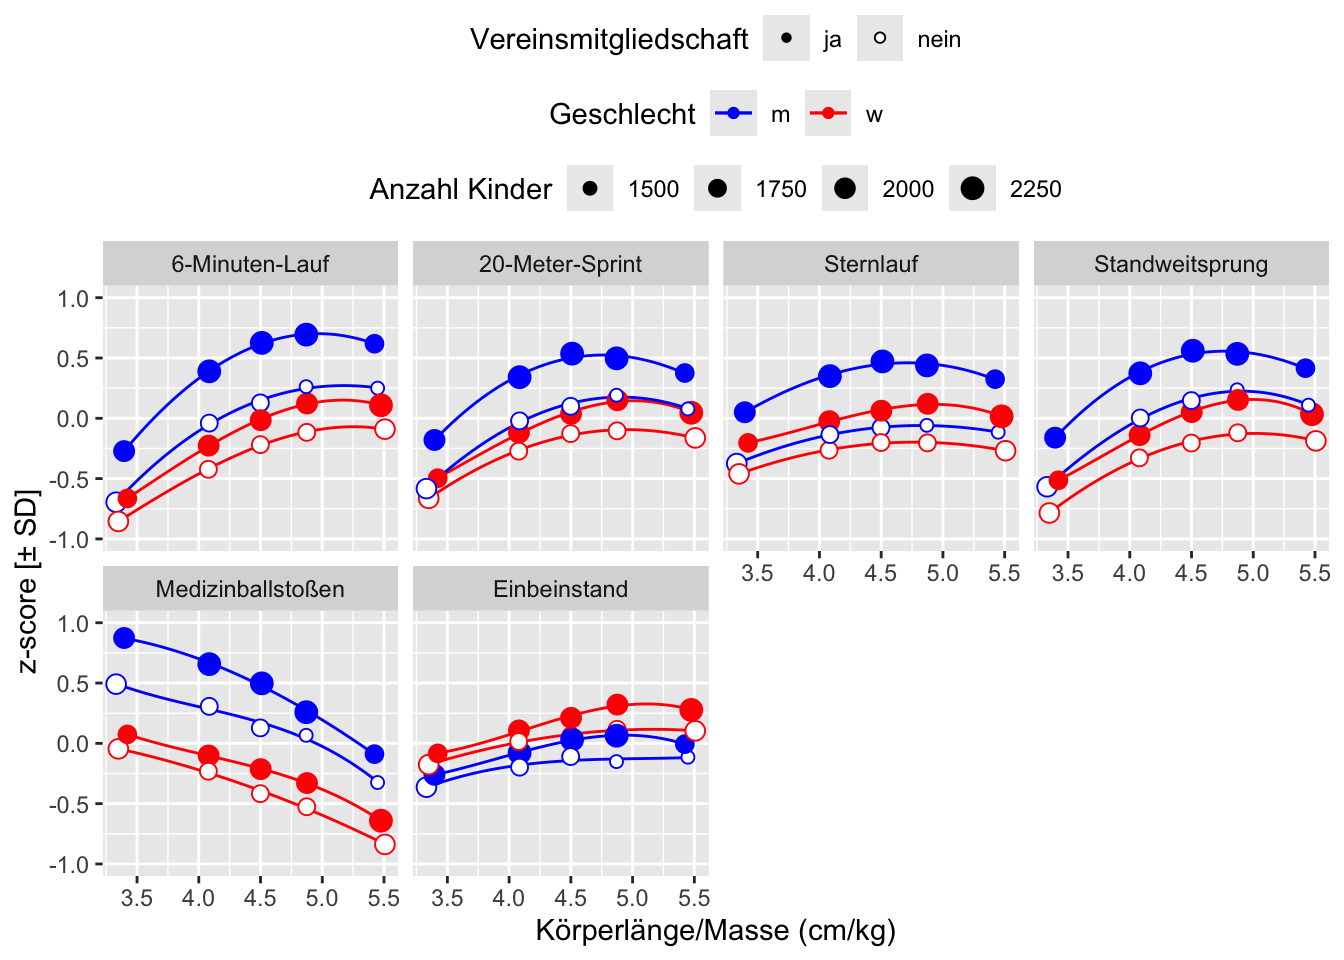
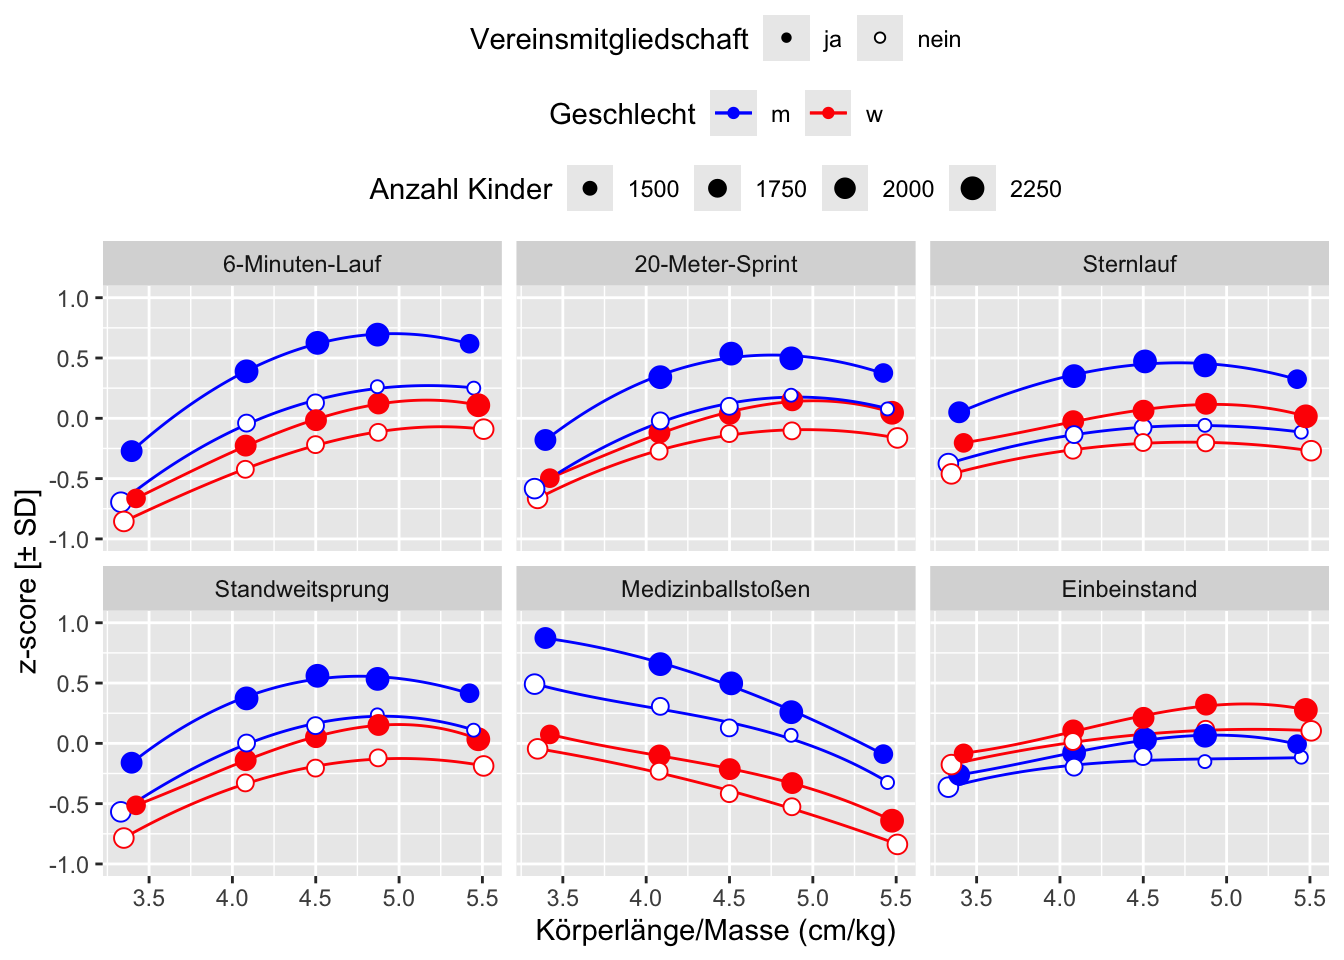
014

Changed region(s): [[0.0625, 0.25, 1.0, 0.9688], [0.8125, 0.25, 0.9375, 0.2812], [0.2188, 0.9062, 0.25, 0.9375]]

diff --git a/docs/014.html b/docs/014.html
@@ -299,8 +299,8 @@ ul.task-list li input[type="checkbox"] {
 <div class="cell">
 <div class="cell-output-display">
 
-<div class="reactable html-widget html-fill-item" id="htmlwidget-affe2804cde468acf1b6" style="width:auto;height:auto;"></div>
-<script type="application/json" data-for="htmlwidget-affe2804cde468acf1b6">{"x":{"tag":{"name":"Reactable","attribs":{"data":{"Component":["6-Minuten-Lauf","6-Minuten-Lauf","6-Minuten-Lauf","6-Minuten-Lauf","6-Minuten-Lauf","6-Minuten-Lauf","6-Minuten-Lauf","6-Minuten-Lauf","6-Minuten-Lauf","6-Minuten-Lauf","6-Minuten-Lauf","6-Minuten-Lauf","6-Minuten-Lauf","6-Minuten-Lauf","6-Minuten-Lauf","6-Minuten-Lauf","6-Minuten-Lauf","6-Minuten-Lauf","6-Minuten-Lauf","6-Minuten-Lauf","20-Meter-Sprint","20-Meter-Sprint","20-Meter-Sprint","20-Meter-Sprint","20-Meter-Sprint","20-Meter-Sprint","20-Meter-Sprint","20-Meter-Sprint","20-Meter-Sprint","20-Meter-Sprint","20-Meter-Sprint","20-Meter-Sprint","20-Meter-Sprint","20-Meter-Sprint","20-Meter-Sprint","20-Meter-Sprint","20-Meter-Sprint","20-Meter-Sprint","20-Meter-Sprint","20-Meter-Sprint","Sternlauf","Sternlauf","Sternlauf","Sternlauf","Sternlauf","Sternlauf","Sternlauf","Sternlauf","Sternlauf","Sternlauf","Sternlauf","Sternlauf","Sternlauf","Sternlauf","Sternlauf","Sternlauf","Sternlauf","Sternlauf","Sternlauf","Sternlauf","Standweitsprung","Standweitsprung","Standweitsprung","Standweitsprung","Standweitsprung","Standweitsprung","Standweitsprung","Standweitsprung","Standweitsprung","Standweitsprung","Standweitsprung","Standweitsprung","Standweitsprung","Standweitsprung","Standweitsprung","Standweitsprung","Standweitsprung","Standweitsprung","Standweitsprung","Standweitsprung","Medizinballstoßen","Medizinballstoßen","Medizinballstoßen","Medizinballstoßen","Medizinballstoßen","Medizinballstoßen","Medizinballstoßen","Medizinballstoßen","Medizinballstoßen","Medizinballstoßen","Medizinballstoßen","Medizinballstoßen","Medizinballstoßen","Medizinballstoßen","Medizinballstoßen","Medizinballstoßen","Medizinballstoßen","Medizinballstoßen","Medizinballstoßen","Medizinballstoßen","Einbeinstand","Einbeinstand","Einbeinstand","Einbeinstand","Einbeinstand","Einbeinstand","Einbeinstand","Einbeinstand","Einbeinstand","Einbeinstand","Einbeinstand","Einbeinstand","Einbeinstand","Einbeinstand","Einbeinstand","Einbeinstand","Einbeinstand","Einbeinstand","Einbeinstand","Einbeinstand"],"Sex":["m","m","m","m","m","m","m","m","m","m","w","w","w","w","w","w","w","w","w","w","m","m","m","m","m","m","m","m","m","m","w","w","w","w","w","w","w","w","w","w","m","m","m","m","m","m","m","m","m","m","w","w","w","w","w","w","w","w","w","w","m","m","m","m","m","m","m","m","m","m","w","w","w","w","w","w","w","w","w","w","m","m","m","m","m","m","m","m","m","m","w","w","w","w","w","w","w","w","w","w","m","m","m","m","m","m","m","m","m","m","w","w","w","w","w","w","w","w","w","w"],"Hmr":["[2.5,3.82]","[2.5,3.82]","(3.82,4.31]","(3.82,4.31]","(4.31,4.67]","(4.31,4.67]","(4.67,5.08]","(4.67,5.08]","(5.08,6.5]","(5.08,6.5]","[2.5,3.82]","[2.5,3.82]","(3.82,4.31]","(3.82,4.31]","(4.31,4.67]","(4.31,4.67]","(4.67,5.08]","(4.67,5.08]","(5.08,6.5]","(5.08,6.5]","[2.5,3.82]","[2.5,3.82]","(3.82,4.31]","(3.82,4.31]","(4.31,4.67]","(4.31,4.67]","(4.67,5.08]","(4.67,5.08]","(5.08,6.5]","(5.08,6.5]","[2.5,3.82]","[2.5,3.82]","(3.82,4.31]","(3.82,4.31]","(4.31,4.67]","(4.31,4.67]","(4.67,5.08]","(4.67,5.08]","(5.08,6.5]","(5.08,6.5]","[2.5,3.82]","[2.5,3.82]","(3.82,4.31]","(3.82,4.31]","(4.31,4.67]","(4.31,4.67]","(4.67,5.08]","(4.67,5.08]","(5.08,6.5]","(5.08,6.5]","[2.5,3.82]","[2.5,3.82]","(3.82,4.31]","(3.82,4.31]","(4.31,4.67]","(4.31,4.67]","(4.67,5.08]","(4.67,5.08]","(5.08,6.5]","(5.08,6.5]","[2.5,3.82]","[2.5,3.82]","(3.82,4.31]","(3.82,4.31]","(4.31,4.67]","(4.31,4.67]","(4.67,5.08]","(4.67,5.08]","(5.08,6.5]","(5.08,6.5]","[2.5,3.82]","[2.5,3.82]","(3.82,4.31]","(3.82,4.31]","(4.31,4.67]","(4.31,4.67]","(4.67,5.08]","(4.67,5.08]","(5.08,6.5]","(5.08,6.5]","[2.5,3.82]","[2.5,3.82]","(3.82,4.31]","(3.82,4.31]","(4.31,4.67]","(4.31,4.67]","(4.67,5.08]","(4.67,5.08]","(5.08,6.5]","(5.08,6.5]","[2.5,3.82]","[2.5,3.82]","(3.82,4.31]","(3.82,4.31]","(4.31,4.67]","(4.31,4.67]","(4.67,5.08]","(4.67,5.08]","(5.08,6.5]","(5.08,6.5]","[2.5,3.82]","[2.5,3.82]","(3.82,4.31]","(3.82,4.31]","(4.31,4.67]","(4.31,4.67]","(4.67,5.08]","(4.67,5.08]","(5.08,6.5]","(5.08,6.5]","[2.5,3.82]","[2.5,3.82]","(3.82,4.31]","(3.82,4.31]","(4.31,4.67]","(4.31,4.67]","(4.67,5.08]","(4.67,5.08]","(5.08,6.5]","(5.08,6.5]"],"Club":["ja","nein","ja","nein","ja","nein","ja","nein","ja","nein","ja","nein","ja","nein","ja","nein","ja","nein","ja","nein","ja","nein","ja","nein","ja","nein","ja","nein","ja","nein","ja","nein","ja","nein","ja","nein","ja","nein","ja","nein","ja","nein","ja","nein","ja","nein","ja","nein","ja","nein","ja","nein","ja","nein","ja","nein","ja","nein","ja","nein","ja","nein","ja","nein","ja","nein","ja","nein","ja","nein","ja","nein","ja","nein","ja","nein","ja","nein","ja","nein","ja","nein","ja","nein","ja","nein","ja","nein","ja","nein","ja","nein","ja","nein","ja","nein","ja","nein","ja","nein","ja","nein","ja","nein","ja","nein","ja","nein","ja","nein","ja","nein","ja","nein","ja","nein","ja","nein","ja","nein"],"N":[2042,1904,2357,1624,2495,1584,2344,1466,1945,1268,1813,1914,2114,1734,2178,1608,2165,1564,2374,1871,2042,1913,2355,1624,2498,1583,2348,1466,1946,1268,1814,1915,2113,1733,2178,1609,2168,1564,2375,1873,2045,1913,2357,1626,2497,1584,2350,1467,1945,1268,1814,1916,2113,1734,2178,1608,2168,1565,2375,1873,2044,1913,2357,1625,2498,1584,2349,1467,1947,1268,1814,1916,2114,1734,2177,1609,2168,1565,2374,1874,2043,1913,2356,1626,2497,1583,2349,1467,1947,1269,1814,1916,2113,1734,2178,1609,2168,1565,2375,1874,2045,1913,2357,1626,2498,1584,2350,1467,1947,1269,1814,1916,2114,1734,2178,1609,2168,1565,2375,1874],"value":[2.56,2.39,2.83,2.65,2.92,2.72,2.95,2.77,2.92,2.77,2.4,2.33,2.58,2.5,2.66,2.58,2.72,2.62,2.71,2.63,4.47,4.3,4.68,4.53,4.77,4.58,4.75,4.62,4.7,4.58,4.34,4.27,4.49,4.43,4.56,4.49,4.61,4.5,4.56,4.48,1.96,1.83,2.05,1.91,2.09,1.92,2.08,1.93,2.04,1.91,1.88,1.81,1.94,1.87,1.97,1.89,1.98,1.88,1.95,1.86,124.75,116.41,135.68,128.09,139.51,131.05,138.99,132.88,136.55,130.28,117.52,111.96,125.19,121.32,129.09,123.84,131.16,125.58,128.74,124.2,4.52,4.24,4.36,4.11,4.25,3.98,4.07,3.93,3.82,3.65,3.94,3.85,3.81,3.72,3.73,3.58,3.65,3.5,3.42,3.28,14.45,12.81,17.37,15.46,19.12,16.87,19.64,16.2,18.52,16.78,17.3,15.8,20.34,18.87,22.01,19.62,23.77,20.49,23.06,20.29],"value_sd":[0.39,0.41,0.39,0.37,0.37,0.38,0.37,0.36,0.37,0.38,0.35,0.37,0.34,0.34,0.34,0.34,0.33,0.33,0.34,0.33,0.42,0.42,0.4,0.4,0.39,0.41,0.37,0.41,0.38,0.4,0.38,0.38,0.38,0.4,0.38,0.39,0.39,0.38,0.38,0.38,0.29,0.28,0.3,0.31,0.31,0.3,0.31,0.29,0.31,0.3,0.27,0.27,0.28,0.29,0.28,0.28,0.29,0.28,0.29,0.28,20.3,20.45,19.96,19.75,19.07,20.07,18.35,19.13,18.03,18.89,18.24,18.69,18.85,19.44,18.96,19.18,19.19,18.79,18.33,18.36,0.72,0.73,0.72,0.69,0.68,0.68,0.66,0.64,0.65,0.65,0.65,0.67,0.65,0.64,0.63,0.6,0.6,0.6,0.58,0.58,13.03,11.8,15.15,13.72,16.25,15.22,16.68,14.09,15.78,15.14,14.66,13.67,16.66,16.14,17.43,16.12,18.53,16.79,17.94,16.59],"Component_unit":["m/s","m/s","m/s","m/s","m/s","m/s","m/s","m/s","m/s","m/s","m/s","m/s","m/s","m/s","m/s","m/s","m/s","m/s","m/s","m/s","m/s","m/s","m/s","m/s","m/s","m/s","m/s","m/s","m/s","m/s","m/s","m/s","m/s","m/s","m/s","m/s","m/s","m/s","m/s","m/s","m/s","m/s","m/s","m/s","m/s","m/s","m/s","m/s","m/s","m/s","m/s","m/s","m/s","m/s","m/s","m/s","m/s","m/s","m/s","m/s","cm","cm","cm","cm","cm","cm","cm","cm","cm","cm","cm","cm","cm","cm","cm","cm","cm","cm","cm","cm","m","m","m","m","m","m","m","m","m","m","m","m","m","m","m","m","m","m","m","m","s","s","s","s","s","s","s","s","s","s","s","s","s","s","s","s","s","s","s","s"],"zScore_mean":[-0.27,-0.7,0.39,-0.04,0.63,0.13,0.69,0.26,0.62,0.25,-0.66,-0.86,-0.23,-0.42,-0.02,-0.22,0.12,-0.12,0.11,-0.09,-0.18,-0.58,0.34,-0.02,0.54,0.1,0.5,0.19,0.38,0.08,-0.5,-0.66,-0.12,-0.27,0.04,-0.13,0.15,-0.1,0.05,-0.16,0.05,-0.38,0.35,-0.14,0.47,-0.08,0.44,-0.06,0.32,-0.12,-0.2,-0.46,-0.02,-0.26,0.06,-0.2,0.12,-0.2,0.02,-0.27,-0.16,-0.57,0.37,0,0.56,0.15,0.53,0.24,0.42,0.11,-0.51,-0.79,-0.14,-0.33,0.05,-0.21,0.15,-0.12,0.03,-0.19,0.87,0.49,0.66,0.31,0.5,0.13,0.26,0.07,-0.09,-0.32,0.07,-0.05,-0.1,-0.23,-0.21,-0.42,-0.33,-0.53,-0.64,-0.84,-0.26,-0.36,-0.08,-0.2,0.03,-0.11,0.06,-0.15,-0.01,-0.11,-0.08,-0.18,0.11,0.02,0.21,0.06,0.32,0.12,0.28,0.1]},"columns":[{"id":"Component","name":"Test","type":"factor"},{"id":"Sex","name":"Geschlecht","type":"character"},{"id":"Hmr","name":"Körperlänge/Masse (cm/kg) Intervall","type":"factor"},{"id":"Club","name":"Vereinsmitgliedschaft","type":"character"},{"id":"N","name":"Anzahl Kinder","type":"numeric"},{"id":"value","name":"Mittelwert","type":"numeric"},{"id":"value_sd","name":"Standardabweichung","type":"numeric"},{"id":"Component_unit","name":"Einheit","type":"factor"},{"id":"zScore_mean","name":"zScore","type":"numeric"}],"filterable":true,"pagination":false,"style":{"fontFamily":"Work Sans, sans-serif","fontSize":"0.75rem"},"dataKey":"6a8c4ce4464e33328e8c09a17133b22f"},"children":[]},"class":"reactR_markup"},"evals":[],"jsHooks":[]}</script>
+<div class="reactable html-widget html-fill-item" id="htmlwidget-35f9bff1d1ef0e6336ed" style="width:auto;height:auto;"></div>
+<script type="application/json" data-for="htmlwidget-35f9bff1d1ef0e6336ed">{"x":{"tag":{"name":"Reactable","attribs":{"data":{"Component":["6-Minuten-Lauf","6-Minuten-Lauf","6-Minuten-Lauf","6-Minuten-Lauf","6-Minuten-Lauf","6-Minuten-Lauf","6-Minuten-Lauf","6-Minuten-Lauf","6-Minuten-Lauf","6-Minuten-Lauf","6-Minuten-Lauf","6-Minuten-Lauf","6-Minuten-Lauf","6-Minuten-Lauf","6-Minuten-Lauf","6-Minuten-Lauf","6-Minuten-Lauf","6-Minuten-Lauf","6-Minuten-Lauf","6-Minuten-Lauf","20-Meter-Sprint","20-Meter-Sprint","20-Meter-Sprint","20-Meter-Sprint","20-Meter-Sprint","20-Meter-Sprint","20-Meter-Sprint","20-Meter-Sprint","20-Meter-Sprint","20-Meter-Sprint","20-Meter-Sprint","20-Meter-Sprint","20-Meter-Sprint","20-Meter-Sprint","20-Meter-Sprint","20-Meter-Sprint","20-Meter-Sprint","20-Meter-Sprint","20-Meter-Sprint","20-Meter-Sprint","Sternlauf","Sternlauf","Sternlauf","Sternlauf","Sternlauf","Sternlauf","Sternlauf","Sternlauf","Sternlauf","Sternlauf","Sternlauf","Sternlauf","Sternlauf","Sternlauf","Sternlauf","Sternlauf","Sternlauf","Sternlauf","Sternlauf","Sternlauf","Standweitsprung","Standweitsprung","Standweitsprung","Standweitsprung","Standweitsprung","Standweitsprung","Standweitsprung","Standweitsprung","Standweitsprung","Standweitsprung","Standweitsprung","Standweitsprung","Standweitsprung","Standweitsprung","Standweitsprung","Standweitsprung","Standweitsprung","Standweitsprung","Standweitsprung","Standweitsprung","Medizinballstoßen","Medizinballstoßen","Medizinballstoßen","Medizinballstoßen","Medizinballstoßen","Medizinballstoßen","Medizinballstoßen","Medizinballstoßen","Medizinballstoßen","Medizinballstoßen","Medizinballstoßen","Medizinballstoßen","Medizinballstoßen","Medizinballstoßen","Medizinballstoßen","Medizinballstoßen","Medizinballstoßen","Medizinballstoßen","Medizinballstoßen","Medizinballstoßen","Einbeinstand","Einbeinstand","Einbeinstand","Einbeinstand","Einbeinstand","Einbeinstand","Einbeinstand","Einbeinstand","Einbeinstand","Einbeinstand","Einbeinstand","Einbeinstand","Einbeinstand","Einbeinstand","Einbeinstand","Einbeinstand","Einbeinstand","Einbeinstand","Einbeinstand","Einbeinstand"],"Sex":["m","m","m","m","m","m","m","m","m","m","w","w","w","w","w","w","w","w","w","w","m","m","m","m","m","m","m","m","m","m","w","w","w","w","w","w","w","w","w","w","m","m","m","m","m","m","m","m","m","m","w","w","w","w","w","w","w","w","w","w","m","m","m","m","m","m","m","m","m","m","w","w","w","w","w","w","w","w","w","w","m","m","m","m","m","m","m","m","m","m","w","w","w","w","w","w","w","w","w","w","m","m","m","m","m","m","m","m","m","m","w","w","w","w","w","w","w","w","w","w"],"Hmr":["[2.5,3.82]","[2.5,3.82]","(3.82,4.31]","(3.82,4.31]","(4.31,4.67]","(4.31,4.67]","(4.67,5.08]","(4.67,5.08]","(5.08,6.5]","(5.08,6.5]","[2.5,3.82]","[2.5,3.82]","(3.82,4.31]","(3.82,4.31]","(4.31,4.67]","(4.31,4.67]","(4.67,5.08]","(4.67,5.08]","(5.08,6.5]","(5.08,6.5]","[2.5,3.82]","[2.5,3.82]","(3.82,4.31]","(3.82,4.31]","(4.31,4.67]","(4.31,4.67]","(4.67,5.08]","(4.67,5.08]","(5.08,6.5]","(5.08,6.5]","[2.5,3.82]","[2.5,3.82]","(3.82,4.31]","(3.82,4.31]","(4.31,4.67]","(4.31,4.67]","(4.67,5.08]","(4.67,5.08]","(5.08,6.5]","(5.08,6.5]","[2.5,3.82]","[2.5,3.82]","(3.82,4.31]","(3.82,4.31]","(4.31,4.67]","(4.31,4.67]","(4.67,5.08]","(4.67,5.08]","(5.08,6.5]","(5.08,6.5]","[2.5,3.82]","[2.5,3.82]","(3.82,4.31]","(3.82,4.31]","(4.31,4.67]","(4.31,4.67]","(4.67,5.08]","(4.67,5.08]","(5.08,6.5]","(5.08,6.5]","[2.5,3.82]","[2.5,3.82]","(3.82,4.31]","(3.82,4.31]","(4.31,4.67]","(4.31,4.67]","(4.67,5.08]","(4.67,5.08]","(5.08,6.5]","(5.08,6.5]","[2.5,3.82]","[2.5,3.82]","(3.82,4.31]","(3.82,4.31]","(4.31,4.67]","(4.31,4.67]","(4.67,5.08]","(4.67,5.08]","(5.08,6.5]","(5.08,6.5]","[2.5,3.82]","[2.5,3.82]","(3.82,4.31]","(3.82,4.31]","(4.31,4.67]","(4.31,4.67]","(4.67,5.08]","(4.67,5.08]","(5.08,6.5]","(5.08,6.5]","[2.5,3.82]","[2.5,3.82]","(3.82,4.31]","(3.82,4.31]","(4.31,4.67]","(4.31,4.67]","(4.67,5.08]","(4.67,5.08]","(5.08,6.5]","(5.08,6.5]","[2.5,3.82]","[2.5,3.82]","(3.82,4.31]","(3.82,4.31]","(4.31,4.67]","(4.31,4.67]","(4.67,5.08]","(4.67,5.08]","(5.08,6.5]","(5.08,6.5]","[2.5,3.82]","[2.5,3.82]","(3.82,4.31]","(3.82,4.31]","(4.31,4.67]","(4.31,4.67]","(4.67,5.08]","(4.67,5.08]","(5.08,6.5]","(5.08,6.5]"],"Club":["ja","nein","ja","nein","ja","nein","ja","nein","ja","nein","ja","nein","ja","nein","ja","nein","ja","nein","ja","nein","ja","nein","ja","nein","ja","nein","ja","nein","ja","nein","ja","nein","ja","nein","ja","nein","ja","nein","ja","nein","ja","nein","ja","nein","ja","nein","ja","nein","ja","nein","ja","nein","ja","nein","ja","nein","ja","nein","ja","nein","ja","nein","ja","nein","ja","nein","ja","nein","ja","nein","ja","nein","ja","nein","ja","nein","ja","nein","ja","nein","ja","nein","ja","nein","ja","nein","ja","nein","ja","nein","ja","nein","ja","nein","ja","nein","ja","nein","ja","nein","ja","nein","ja","nein","ja","nein","ja","nein","ja","nein","ja","nein","ja","nein","ja","nein","ja","nein","ja","nein"],"N":[2042,1904,2357,1624,2495,1584,2344,1466,1945,1268,1813,1914,2114,1734,2178,1608,2165,1564,2374,1871,2042,1913,2355,1624,2498,1583,2348,1466,1946,1268,1814,1915,2113,1733,2178,1609,2168,1564,2375,1873,2045,1913,2357,1626,2497,1584,2350,1467,1945,1268,1814,1916,2113,1734,2178,1608,2168,1565,2375,1873,2044,1913,2357,1625,2498,1584,2349,1467,1947,1268,1814,1916,2114,1734,2177,1609,2168,1565,2374,1874,2043,1913,2356,1626,2497,1583,2349,1467,1947,1269,1814,1916,2113,1734,2178,1609,2168,1565,2375,1874,2045,1913,2357,1626,2498,1584,2350,1467,1947,1269,1814,1916,2114,1734,2178,1609,2168,1565,2375,1874],"value":[2.56,2.39,2.83,2.65,2.92,2.72,2.95,2.77,2.92,2.77,2.4,2.33,2.58,2.5,2.66,2.58,2.72,2.62,2.71,2.63,4.47,4.3,4.68,4.53,4.77,4.58,4.75,4.62,4.7,4.58,4.34,4.27,4.49,4.43,4.56,4.49,4.61,4.5,4.56,4.48,1.96,1.83,2.05,1.91,2.09,1.92,2.08,1.93,2.04,1.91,1.88,1.81,1.94,1.87,1.97,1.89,1.98,1.88,1.95,1.86,124.75,116.41,135.68,128.09,139.51,131.05,138.99,132.88,136.55,130.28,117.52,111.96,125.19,121.32,129.09,123.84,131.16,125.58,128.74,124.2,4.52,4.24,4.36,4.11,4.25,3.98,4.07,3.93,3.82,3.65,3.94,3.85,3.81,3.72,3.73,3.58,3.65,3.5,3.42,3.28,14.45,12.81,17.37,15.46,19.12,16.87,19.64,16.2,18.52,16.78,17.3,15.8,20.34,18.87,22.01,19.62,23.77,20.49,23.06,20.29],"value_sd":[0.39,0.41,0.39,0.37,0.37,0.38,0.37,0.36,0.37,0.38,0.35,0.37,0.34,0.34,0.34,0.34,0.33,0.33,0.34,0.33,0.42,0.42,0.4,0.4,0.39,0.41,0.37,0.41,0.38,0.4,0.38,0.38,0.38,0.4,0.38,0.39,0.39,0.38,0.38,0.38,0.29,0.28,0.3,0.31,0.31,0.3,0.31,0.29,0.31,0.3,0.27,0.27,0.28,0.29,0.28,0.28,0.29,0.28,0.29,0.28,20.3,20.45,19.96,19.75,19.07,20.07,18.35,19.13,18.03,18.89,18.24,18.69,18.85,19.44,18.96,19.18,19.19,18.79,18.33,18.36,0.72,0.73,0.72,0.69,0.68,0.68,0.66,0.64,0.65,0.65,0.65,0.67,0.65,0.64,0.63,0.6,0.6,0.6,0.58,0.58,13.03,11.8,15.15,13.72,16.25,15.22,16.68,14.09,15.78,15.14,14.66,13.67,16.66,16.14,17.43,16.12,18.53,16.79,17.94,16.59],"Component_unit":["m/s","m/s","m/s","m/s","m/s","m/s","m/s","m/s","m/s","m/s","m/s","m/s","m/s","m/s","m/s","m/s","m/s","m/s","m/s","m/s","m/s","m/s","m/s","m/s","m/s","m/s","m/s","m/s","m/s","m/s","m/s","m/s","m/s","m/s","m/s","m/s","m/s","m/s","m/s","m/s","m/s","m/s","m/s","m/s","m/s","m/s","m/s","m/s","m/s","m/s","m/s","m/s","m/s","m/s","m/s","m/s","m/s","m/s","m/s","m/s","cm","cm","cm","cm","cm","cm","cm","cm","cm","cm","cm","cm","cm","cm","cm","cm","cm","cm","cm","cm","m","m","m","m","m","m","m","m","m","m","m","m","m","m","m","m","m","m","m","m","s","s","s","s","s","s","s","s","s","s","s","s","s","s","s","s","s","s","s","s"],"zScore_mean":[-0.27,-0.7,0.39,-0.04,0.63,0.13,0.69,0.26,0.62,0.25,-0.66,-0.86,-0.23,-0.42,-0.02,-0.22,0.12,-0.12,0.11,-0.09,-0.18,-0.58,0.34,-0.02,0.54,0.1,0.5,0.19,0.38,0.08,-0.5,-0.66,-0.12,-0.27,0.04,-0.13,0.15,-0.1,0.05,-0.16,0.05,-0.38,0.35,-0.14,0.47,-0.08,0.44,-0.06,0.32,-0.12,-0.2,-0.46,-0.02,-0.26,0.06,-0.2,0.12,-0.2,0.02,-0.27,-0.16,-0.57,0.37,0,0.56,0.15,0.53,0.24,0.42,0.11,-0.51,-0.79,-0.14,-0.33,0.05,-0.21,0.15,-0.12,0.03,-0.19,0.87,0.49,0.66,0.31,0.5,0.13,0.26,0.07,-0.09,-0.32,0.07,-0.05,-0.1,-0.23,-0.21,-0.42,-0.33,-0.53,-0.64,-0.84,-0.26,-0.36,-0.08,-0.2,0.03,-0.11,0.06,-0.15,-0.01,-0.11,-0.08,-0.18,0.11,0.02,0.21,0.06,0.32,0.12,0.28,0.1]},"columns":[{"id":"Component","name":"Test","type":"factor"},{"id":"Sex","name":"Geschlecht","type":"character"},{"id":"Hmr","name":"Körperlänge/Masse (cm/kg) Intervall","type":"factor"},{"id":"Club","name":"Vereinsmitgliedschaft","type":"character"},{"id":"N","name":"Anzahl Kinder","type":"numeric"},{"id":"value","name":"Mittelwert","type":"numeric"},{"id":"value_sd","name":"Standardabweichung","type":"numeric"},{"id":"Component_unit","name":"Einheit","type":"factor"},{"id":"zScore_mean","name":"zScore","type":"numeric"}],"filterable":true,"pagination":false,"style":{"fontFamily":"Work Sans, sans-serif","fontSize":"0.75rem"},"dataKey":"6a8c4ce4464e33328e8c09a17133b22f"},"children":[]},"class":"reactR_markup"},"evals":[],"jsHooks":[]}</script>
 </div>
 </div>
 </section>
